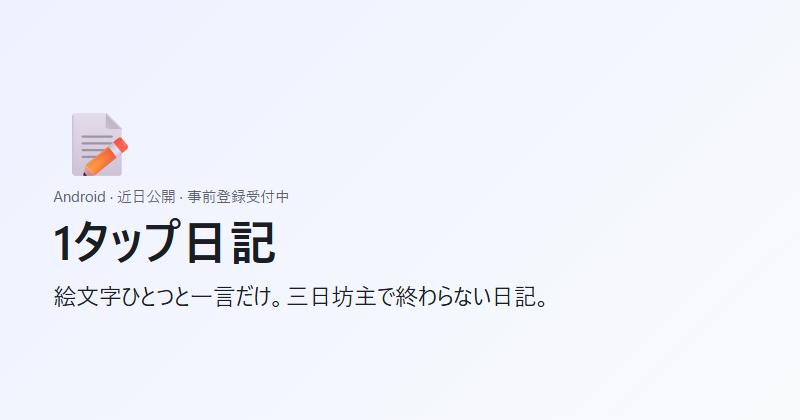
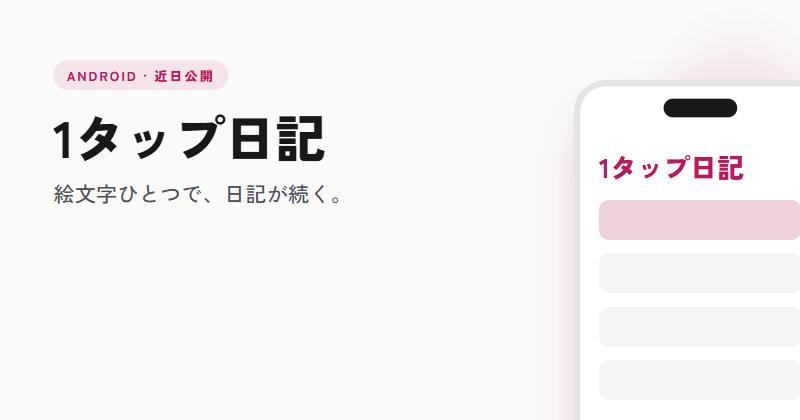
Redesign landing page: per-app accent, app preview, features grid, FAQ

diff --git a/docs/index.html b/docs/index.html
@@ -4,78 +4,207 @@
 <meta charset="utf-8">
 <meta name="viewport" content="width=device-width,initial-scale=1">
 <title>1タップ日記 | 近日公開 事前登録</title>
-<meta name="description" content="絵文字ひとつと一言だけ。三日坊主で終わらない日記。 Androidアプリ「1タップ日記」の事前登録。">
-<meta property="og:title" content="1タップ日記 — 絵文字ひとつと一言だけ。三日坊主で終わらない日記。">
+<meta name="description" content="絵文字ひとつで、日記が続く。 Androidアプリ「1タップ日記」の事前登録。">
+<meta property="og:title" content="1タップ日記 | 絵文字ひとつで、日記が続く。">
 <meta property="og:description" content="近日公開のAndroidアプリ。事前登録が多ければ優先してリリースします。">
 <meta property="og:image" content="https://is-gts.github.io/hitotap/og.png">
 <meta property="og:url" content="https://is-gts.github.io/hitotap/">
 <meta name="twitter:card" content="summary_large_image">
+<meta name="theme-color" content="#be185d">
+<link rel="preconnect" href="https://fonts.googleapis.com"><link rel="preconnect" href="https://fonts.gstatic.com" crossorigin>
+<link href="https://fonts.googleapis.com/css2?family=Zen+Kaku+Gothic+New:wght@400;500;700;900&display=swap" rel="stylesheet">
 <style>
-:root{--bg:#f6f7f9;--card:#fff;--fg:#1a1d21;--muted:#5c6470;--line:#e3e6ea;--accent:#2563eb;--ok:#15803d}
-@media(prefers-color-scheme:dark){:root{--bg:#0f1115;--card:#181b21;--fg:#eceef1;--muted:#9aa3ad;--line:#2a2f37;--accent:#60a5fa;--ok:#4ade80}}
+:root{--bg:#fafaf9;--bg2:#f4f4f3;--fg:#18181b;--muted:#5b5b63;--line:#e4e4e7;--card:#ffffff;--accent:#be185d;--accent-fg:#ffffff;--soft:color-mix(in srgb,#be185d 9%,#fafaf9);--soft2:color-mix(in srgb,#be185d 18%,#fafaf9);--ok:#15803d;--shadow:0 20px 60px -20px color-mix(in srgb,#be185d 35%,transparent)}
+@media(prefers-color-scheme:dark){:root{--bg:#121214;--bg2:#18181b;--fg:#f4f4f5;--muted:#a1a1aa;--line:#2a2a30;--card:#1c1c21;--accent:#f472b6;--accent-fg:#101012;--soft:color-mix(in srgb,#f472b6 12%,#121214);--soft2:color-mix(in srgb,#f472b6 22%,#121214);--ok:#4ade80;--shadow:0 20px 60px -20px rgba(0,0,0,.6)}}
 *{box-sizing:border-box}
-body{margin:0;background:var(--bg);color:var(--fg);font:16px/1.6 system-ui,-apple-system,"Segoe UI",Roboto,"Hiragino Sans","Noto Sans JP",sans-serif}
-main{max-width:560px;margin:0 auto;padding:48px 16px 64px}
-.icon{font-size:64px;line-height:1;margin-bottom:12px}
-h1{font-size:clamp(30px,7vw,42px);line-height:1.25;margin:0 0 8px}
-.pitch{font-size:20px;font-weight:600;margin:0 0 20px}
-ul{margin:0 0 28px;padding-left:20px;color:var(--muted)}
-.badge{display:inline-block;font-size:13px;color:var(--muted);border:1px solid var(--line);border-radius:999px;padding:2px 10px;margin-bottom:16px}
-form{display:flex;gap:8px}
-input[type=email]{flex:1;min-width:0;padding:12px 14px;border:1px solid var(--line);border-radius:8px;background:var(--card);color:var(--fg);font-size:16px}
-button{padding:12px 18px;border:0;border-radius:8px;background:var(--accent);color:#fff;font-weight:600;font-size:16px;cursor:pointer;white-space:nowrap}
-button:disabled{opacity:.6;cursor:default}
-.msg{font-size:14px;min-height:1.4em;margin:8px 0 0}
-.msg.ok{color:var(--ok)}
-.hp{position:absolute;left:-9999px}
-.features{margin-top:48px;padding-top:32px;border-top:1px solid var(--line)}
-.features h2{font-size:22px;margin:0 0 20px}
-.features dl{margin:0;display:grid;gap:18px}
-.features dt{font-weight:600;margin:0 0 2px}
-.features dd{margin:0;color:var(--muted);font-size:15px}
-footer{margin-top:40px;color:var(--muted);font-size:13px}
+html{scroll-behavior:smooth}
+body{margin:0;background:var(--bg);color:var(--fg);font-family:"Zen Kaku Gothic New",system-ui,-apple-system,"Hiragino Sans","Noto Sans JP",sans-serif;font-size:16px;line-height:1.7;-webkit-font-smoothing:antialiased}
+.wrap{max-width:1080px;margin:0 auto;padding:0 20px}
+header{display:flex;align-items:center;justify-content:space-between;height:64px}
+.brand{font-weight:900;font-size:18px;display:flex;align-items:center;gap:10px}
+.brand i{width:12px;height:12px;border-radius:4px;background:var(--accent);display:inline-block}
+.tag{font-size:13px;color:var(--muted);font-weight:500}
+
+.hero{display:grid;grid-template-columns:1.1fr .9fr;gap:48px;align-items:center;padding:16px 0 72px;min-height:calc(100dvh - 64px)}
+.hero h1{font-size:clamp(32px,4vw,46px);line-height:1.22;font-weight:900;letter-spacing:-.01em;margin:0 0 18px}
+.hero p.sub{font-size:17px;color:var(--muted);margin:0 0 28px;max-width:34em}
+.eyebrow{display:inline-block;font-size:12px;font-weight:700;letter-spacing:.14em;color:var(--accent);background:var(--soft);padding:5px 12px;border-radius:999px;margin-bottom:18px}
+
+.reg label{display:block;font-size:13px;font-weight:700;margin-bottom:6px}
+.reg .row{display:flex;gap:8px}
+.reg input[type=email]{flex:1;min-width:0;padding:13px 14px;border:1.5px solid var(--line);border-radius:12px;background:var(--card);color:var(--fg);font:inherit;font-size:16px;transition:border-color .2s,box-shadow .2s}
+.reg input[type=email]::placeholder{color:#8a8a93}
+.reg input[type=email]:focus{outline:0;border-color:var(--accent);box-shadow:0 0 0 4px var(--soft2)}
+.reg button{padding:13px 22px;border:0;border-radius:12px;background:var(--accent);color:var(--accent-fg);font:inherit;font-weight:700;font-size:16px;cursor:pointer;white-space:nowrap;transition:transform .12s,filter .2s}
+.reg button:hover{filter:brightness(1.08)}
+.reg button:active{transform:scale(.97)}
+.reg button:disabled{opacity:.55;cursor:default;transform:none}
+.msg{font-size:14px;min-height:1.5em;margin:8px 0 0;color:var(--muted)}
+.msg.ok{color:var(--ok);font-weight:700}
+.msg.err{color:#dc2626}
+.hp{position:absolute;left:-9999px;width:1px;height:1px}
+.note{font-size:12.5px;color:var(--muted);margin:10px 0 0}
+
+.stage{display:flex;justify-content:center;position:relative}
+.stage::before{content:"";position:absolute;inset:10% -10% 0;background:radial-gradient(60% 60% at 50% 60%,var(--soft2),transparent 70%);z-index:0;pointer-events:none}
+.phone{position:relative;z-index:1;width:300px;aspect-ratio:9/18.5;border-radius:38px;background:var(--card);border:1px solid var(--line);box-shadow:var(--shadow),0 0 0 8px color-mix(in srgb,var(--fg) 6%,transparent);padding:48px 16px 20px;overflow:hidden;transform:rotate(-3deg)}
+.phone::before{content:"";position:absolute;top:14px;left:50%;width:84px;height:22px;transform:translateX(-50%);border-radius:999px;background:color-mix(in srgb,var(--fg) 85%,var(--bg))}
+.m-top{display:flex;justify-content:space-between;align-items:baseline;margin-bottom:12px}
+.m-top span{font-size:12px;color:var(--muted)}
+.m-top strong{font-size:22px;font-weight:900}
+.m-row{display:flex;justify-content:space-between;align-items:center;padding:11px 12px;border-radius:12px;background:var(--bg2);margin-bottom:8px;font-size:13px}
+.m-row b{display:block;font-weight:700}
+.m-row small{color:var(--muted);font-size:11px}
+.m-row em{font-style:normal;color:var(--muted);font-size:12px;white-space:nowrap}
+.m-row.m-hot{background:var(--soft2)}
+.m-row.m-hot em{color:var(--accent);font-weight:700}
+.m-route{position:relative;margin:6px 0 14px}
+.m-route::before{content:"";position:absolute;left:5px;top:12px;bottom:12px;width:2px;background:var(--line)}
+.m-st{display:grid;grid-template-columns:12px 1fr auto;gap:12px;align-items:center;padding:9px 0;font-size:13px;position:relative}
+.m-st i{width:12px;height:12px;border-radius:50%;border:2px solid var(--line);background:var(--card)}
+.m-st small{color:var(--muted);font-size:11px}
+.m-st.done i{background:var(--line)}
+.m-st.now i{border-color:var(--accent);background:var(--accent);box-shadow:0 0 0 5px var(--soft2)}
+.m-st.alert i{border-color:var(--accent)}
+.m-st.alert small{color:var(--accent);font-weight:700}
+.m-cta{margin-top:10px;text-align:center;padding:11px;border-radius:12px;background:var(--accent);color:var(--accent-fg);font-weight:700;font-size:13px}
+.m-grid{display:grid;grid-template-columns:1fr 1fr;gap:8px;margin-bottom:12px}
+.m-food{padding:10px 11px;border-radius:12px;background:var(--bg2);font-size:13px}
+.m-food b{display:block;font-weight:700}
+.m-food em{font-style:normal;font-size:11px;color:var(--muted)}
+.m-food.hot{background:var(--soft2)} .m-food.hot em{color:var(--accent);font-weight:700}
+.m-food.warn em{color:var(--accent)}
+.m-emoji{display:flex;justify-content:space-between;font-size:26px;margin:4px 2px 14px}
+.m-emoji span{padding:6px;border-radius:12px;line-height:1}
+.m-emoji .sel{background:var(--soft2);box-shadow:0 0 0 2px var(--accent)}
+.m-cal{display:grid;grid-template-columns:repeat(7,1fr);gap:6px;margin-bottom:12px}
+.m-cal i{aspect-ratio:1;border-radius:8px;background:var(--bg2)}
+.m-cal i.a{background:var(--accent)} .m-cal i.b{background:color-mix(in srgb,var(--accent) 55%,var(--bg2))} .m-cal i.c{background:color-mix(in srgb,var(--accent) 30%,var(--bg2))}
+.m-cal i.now{box-shadow:inset 0 0 0 2px var(--accent)}
+
+section{padding:72px 0}
+section h2{font-size:clamp(26px,3.4vw,36px);font-weight:900;letter-spacing:-.01em;line-height:1.3;margin:0 0 10px}
+section .lead{color:var(--muted);margin:0 0 36px;max-width:36em}
+.feat{display:grid;grid-template-columns:repeat(3,1fr);gap:14px}
+.feat article{padding:26px 24px;border-radius:16px;background:var(--card);border:1px solid var(--line)}
+.feat article:nth-child(1){grid-column:span 2;background:var(--soft)}
+.feat article:nth-child(4){background:var(--soft)}
+.feat h3{margin:0 0 8px;font-size:17px;font-weight:700}
+.feat p{margin:0;color:var(--muted);font-size:14.5px}
+
+.faq{background:var(--bg2);border-top:1px solid var(--line);border-bottom:1px solid var(--line)}
+.faq details{border-bottom:1px solid var(--line);padding:4px 0}
+.faq details:last-child{border-bottom:0}
+.faq summary{cursor:pointer;list-style:none;padding:16px 0;font-weight:700;display:flex;justify-content:space-between;gap:16px}
+.faq summary::-webkit-details-marker{display:none}
+.faq summary::after{content:"+";color:var(--accent);font-weight:400;font-size:22px;line-height:1}
+.faq details[open] summary::after{content:"−"}
+.faq details p{margin:0 0 18px;color:var(--muted);max-width:40em}
+
+.final{text-align:center}
+.final .lead{margin-left:auto;margin-right:auto}
+.final .reg{max-width:480px;margin:0 auto;text-align:left}
+footer{padding:24px 0 40px;color:var(--muted);font-size:12.5px;border-top:1px solid var(--line)}
+
+@media(prefers-reduced-motion:no-preference){
+.hero>*{animation:up .7s cubic-bezier(.16,1,.3,1) both}
+.hero>.stage{animation-delay:.15s}
+@keyframes up{from{opacity:0;transform:translateY(16px)}to{opacity:1;transform:none}}
+}
+@media(max-width:860px){
+.hero{grid-template-columns:1fr;gap:40px;padding:24px 0 56px;min-height:0}
+.stage{order:2}
+.phone{width:260px;transform:none}
+.feat{grid-template-columns:1fr}
+.feat article:nth-child(1){grid-column:auto}
+section{padding:56px 0}
+}
+@media(max-width:420px){.reg .row{flex-direction:column}.reg button{width:100%}}
 </style>
 </head>
 <body>
-<main>
-<div class="icon">📝</div>
-<span class="badge">Android · 近日公開</span>
-<h1>1タップ日記</h1>
-<p class="pitch">絵文字ひとつと一言だけ。三日坊主で終わらない日記。</p>
-<ul><li>今日の気分を絵文字でタップ、書くのは任意</li><li>続いた日数をカレンダーで可視化</li><li>月ごとの気分グラフ</li></ul>
-<form><input type="email" name="email" placeholder="メールアドレス" required autocomplete="email"><input class="hp" name="hp" tabindex="-1" autocomplete="off"><button>事前登録</button></form>
-<p class="msg"></p>
-<section class="features">
-<h2>できること</h2>
-<dl>
-<dt>絵文字1つで今日を記録</dt><dd>😊😐😩など、今日の気分を絵文字でタップするだけ。文章を書かなくても日記が続きます。</dd>
-<dt>一言メモは任意</dt><dd>書きたい日だけ、一言だけ。長文を書く必要はありません。</dd>
-<dt>継続カレンダー</dt><dd>記録した日がカレンダーに色づき、続いた日数が見えてモチベーションになります。</dd>
-<dt>月ごとの気分グラフ</dt><dd>1か月の気分の推移をグラフで振り返り。調子の波に気づけます。</dd>
-<dt>毎日のリマインド通知</dt><dd>決めた時間に「今日はどんな日？」と通知。忘れずに記録できます。</dd>
-<dt>写真を1枚添付</dt><dd>その日の1枚を添えられます。見返すときの手がかりに。</dd>
-</dl>
+<div class="wrap">
+<header><div class="brand"><i></i>1タップ日記</div><span class="tag">Android アプリ</span></header>
+
+<section class="hero">
+<div>
+<span class="eyebrow">近日公開</span>
+<h1>絵文字ひとつで、<br>日記が続く。</h1>
+<p class="sub">今日の気分を絵文字でタップするだけ。書きたい日だけ一言。続いた日数がカレンダーに積み上がります。</p>
+<form class="reg" novalidate>
+<label for="email-hero">メールアドレス</label>
+<div class="row"><input id="email-hero" type="email" name="email" placeholder="you@example.com" required autocomplete="email" inputmode="email"><input class="hp" name="hp" tabindex="-1" autocomplete="off"><button type="submit">事前登録</button></div>
+<p class="msg" aria-live="polite"></p>
+</form>
+<p class="note">登録は無料。公開時にメールで1通だけお知らせします。</p>
+</div>
+<div class="stage"><div class="phone" aria-hidden="true">
+<div class="m-top"><span>11月</span><strong>18日連続</strong></div>
+<div class="m-emoji"><span>😊</span><span class="sel">😌</span><span>😐</span><span>😩</span><span>😤</span></div>
+<div class="m-cal">
+<i class="a"></i><i class="a"></i><i class="b"></i><i class="a"></i><i class="c"></i><i class="a"></i><i class="a"></i>
+<i class="b"></i><i class="a"></i><i class="a"></i><i class="a"></i><i class="b"></i><i class="a"></i><i class="c"></i>
+<i class="a"></i><i class="a"></i><i class="b"></i><i class="a"></i><i class="now"></i><i></i><i></i>
+<i></i><i></i><i></i><i></i><i></i><i></i><i></i>
+</div>
+<div class="m-cta">今日は少し落ち着いた日</div>
+</div></div>
 </section>
-<footer>登録は無料。公開時にメールで1通だけお知らせします。メールアドレスはリリース通知のみに使用し、第三者には提供しません。</footer>
-</main>
+
+<section id="features">
+<h2>できること</h2>
+<p class="lead">「1タップ日記」で使える機能です。事前登録の数を見て開発に入るため、内容は変わることがあります。</p>
+<div class="feat">
+<article><h3>絵文字1つで記録</h3><p>😊😐😩など、今日の気分を絵文字でタップするだけ。文章を書かなくても日記が続きます。</p></article>
+<article><h3>一言メモは任意</h3><p>書きたい日だけ、一言だけ。長文を書く必要はありません。</p></article>
+<article><h3>継続カレンダー</h3><p>記録した日がカレンダーに色づき、続いた日数が見えてモチベーションになります。</p></article>
+<article><h3>月ごとの気分グラフ</h3><p>1か月の気分の推移をグラフで振り返り。調子の波に気づけます。</p></article>
+<article><h3>毎日のリマインド</h3><p>決めた時間に「今日はどんな日？」と通知。忘れずに記録できます。</p></article>
+<article><h3>写真を1枚添付</h3><p>その日の1枚を添えられます。見返すときの手がかりに。</p></article>
+</div>
+</section>
+</div>
+
+<section class="faq"><div class="wrap">
+<h2>よくある質問</h2>
+<details><summary>データはどこに保存されますか？</summary><p>端末内に保存します。クラウド同期はなく、バックアップはエクスポート機能で行います。</p></details>
+<details><summary>パスコードロックはありますか？</summary><p>はい。アプリ起動時のパスコードと生体認証に対応予定です。</p></details>
+<details><summary>いつ公開されますか？</summary><p>事前登録の数で優先順位を決めます。着手後は2〜3か月を目安にしています。</p></details>
+</div></section>
+
+<div class="wrap">
+<section class="final">
+<h2>欲しいと思ったら、事前登録を。</h2>
+<p class="lead">登録が多いアプリから順に作ります。あなたの1票で優先順位が決まります。</p>
+<form class="reg" novalidate>
+<label for="email-final">メールアドレス</label>
+<div class="row"><input id="email-final" type="email" name="email" placeholder="you@example.com" required autocomplete="email" inputmode="email"><input class="hp" name="hp" tabindex="-1" autocomplete="off"><button type="submit">事前登録</button></div>
+<p class="msg" aria-live="polite"></p>
+</form>
+</section>
+<footer>メールアドレスはリリース通知のみに使用し、第三者には提供しません。</footer>
+</div>
+
 <script>
 const ENDPOINT = "https://script.google.com/macros/s/AKfycbyzV1WIYIxnYVrx0GkV5e0CbnglA2Yu3JSZlw0mKB-JGQSZEI5FeUPZIB5cYhRjBg8wOw/exec";
 const APP = "hitotap", KEY = "preregistered-" + APP;
-const form = document.querySelector("form"), msg = document.querySelector(".msg");
-const mark = () => { form.querySelector("button").disabled = true; form.querySelector("input[type=email]").disabled = true; msg.textContent = "登録済みです。公開時にお知らせします。"; msg.className = "msg ok"; };
-if (localStorage.getItem(KEY)) mark();
-form.addEventListener("submit", async e => {
+const forms = [...document.querySelectorAll("form.reg")];
+const markAll = () => forms.forEach(f => { f.querySelector("button").disabled = true; f.querySelector("input[type=email]").disabled = true; const m = f.querySelector(".msg"); m.textContent = "登録済みです。公開時にお知らせします。"; m.className = "msg ok"; });
+if (localStorage.getItem(KEY)) markAll();
+forms.forEach(form => form.addEventListener("submit", async e => {
   e.preventDefault();
+  const input = form.querySelector("input[type=email]"), msg = form.querySelector(".msg"), btn = form.querySelector("button");
+  if (!/^[^\s@]+@[^\s@]+\.[^\s@]+$/.test(input.value.trim())) { msg.textContent = "メールアドレスの形式を確認してください。"; msg.className = "msg err"; input.focus(); return; }
   const fd = new FormData(form);
   fd.append("app", APP); fd.append("ref", document.referrer); fd.append("ua", navigator.userAgent);
-  form.querySelector("button").disabled = true; msg.className = "msg"; msg.textContent = "送信中…";
+  btn.disabled = true; msg.className = "msg"; msg.textContent = "送信中…";
   try {
     await fetch(ENDPOINT, { method: "POST", mode: "no-cors", body: fd });
-    localStorage.setItem(KEY, "1"); mark();
+    localStorage.setItem(KEY, "1"); markAll();
   } catch {
-    form.querySelector("button").disabled = false; msg.textContent = "送信に失敗しました。もう一度お試しください。";
+    btn.disabled = false; msg.textContent = "送信に失敗しました。もう一度お試しください。"; msg.className = "msg err";
   }
-});
+}));
 </script>
 </body>
 </html>

diff --git a/docs/og.html b/docs/og.html
@@ -1,14 +1,20 @@
 <!doctype html>
 <html lang="ja"><head><meta charset="utf-8"><title>OG</title>
+<link href="https://fonts.googleapis.com/css2?family=Zen+Kaku+Gothic+New:wght@500;900&display=swap" rel="stylesheet">
 <style>
-body{margin:0;width:1200px;height:630px;background:linear-gradient(135deg,#eef2ff,#f8fafc);color:#1a1d21;font-family:"Yu Gothic UI","Meiryo","Noto Sans JP",sans-serif;display:flex;flex-direction:column;justify-content:center;padding:0 80px;box-sizing:border-box}
-.i{font-size:96px;line-height:1;margin-bottom:20px}
-.b{font-size:22px;color:#5c6470;margin-bottom:8px}
-h1{font-size:72px;margin:0 0 16px;line-height:1.2}
-p{font-size:34px;margin:0;line-height:1.4}
+body{margin:0;width:1200px;height:630px;background:#fafaf9;color:#18181b;font-family:"Zen Kaku Gothic New",sans-serif;display:grid;grid-template-columns:1fr 420px;overflow:hidden}
+.l{padding:90px 0 0 80px}
+.e{display:inline-block;font-size:20px;font-weight:900;letter-spacing:.14em;color:#be185d;background:color-mix(in srgb,#be185d 10%,#fafaf9);padding:8px 20px;border-radius:999px;margin-bottom:28px}
+h1{font-size:76px;margin:0 0 20px;line-height:1.1;font-weight:900;letter-spacing:-.01em}
+p{font-size:32px;margin:0;line-height:1.45;font-weight:500;color:#52525b;max-width:620px}
+.r{position:relative}
+.r::before{content:"";position:absolute;inset:-20% -30% -20% 0;background:radial-gradient(50% 50% at 60% 50%,color-mix(in srgb,#be185d 22%,#fafaf9),transparent 70%)}
+.b{position:absolute;right:-40px;top:120px;width:360px;height:700px;border-radius:48px;background:#fff;border:10px solid #e4e4e7;box-shadow:0 40px 80px -30px color-mix(in srgb,#be185d 45%,transparent)}
+.b i{position:absolute;left:50%;top:18px;width:110px;height:28px;transform:translateX(-50%);border-radius:999px;background:#18181b}
+.b b{position:absolute;left:28px;right:28px;top:90px;font-size:40px;font-weight:900;color:#be185d}
+.b s{position:absolute;left:28px;right:28px;height:60px;border-radius:16px;background:#f4f4f3;text-decoration:none}
+.b s.h{background:color-mix(in srgb,#be185d 18%,#fafaf9)}
 </style></head><body>
-<div class="i">📝</div>
-<div class="b">Android · 近日公開 · 事前登録受付中</div>
-<h1>1タップ日記</h1>
-<p>絵文字ひとつと一言だけ。三日坊主で終わらない日記。</p>
+<div class="l"><span class="e">ANDROID · 近日公開</span><h1>1タップ日記</h1><p>絵文字ひとつで、日記が続く。</p></div>
+<div class="r"><div class="b"><i></i><b>1タップ日記</b><s class="h" style="top:170px"></s><s style="top:250px"></s><s style="top:330px"></s><s style="top:410px"></s></div></div>
 </body></html>
